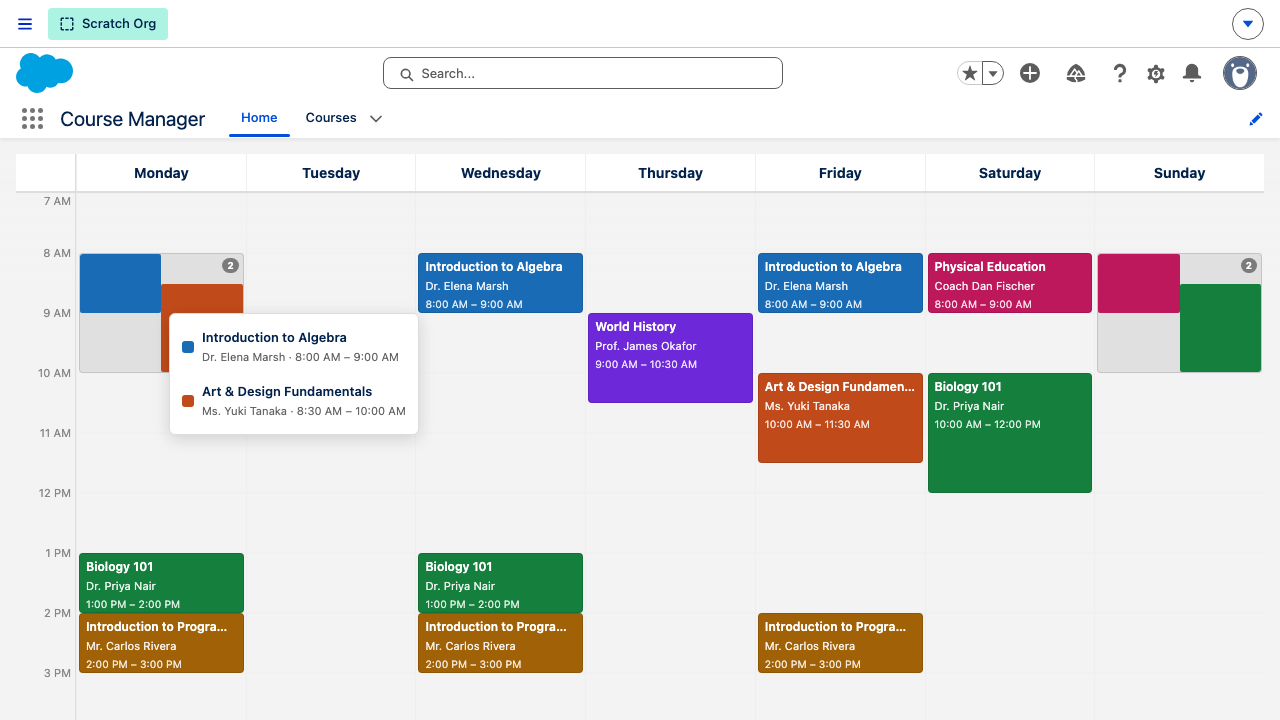
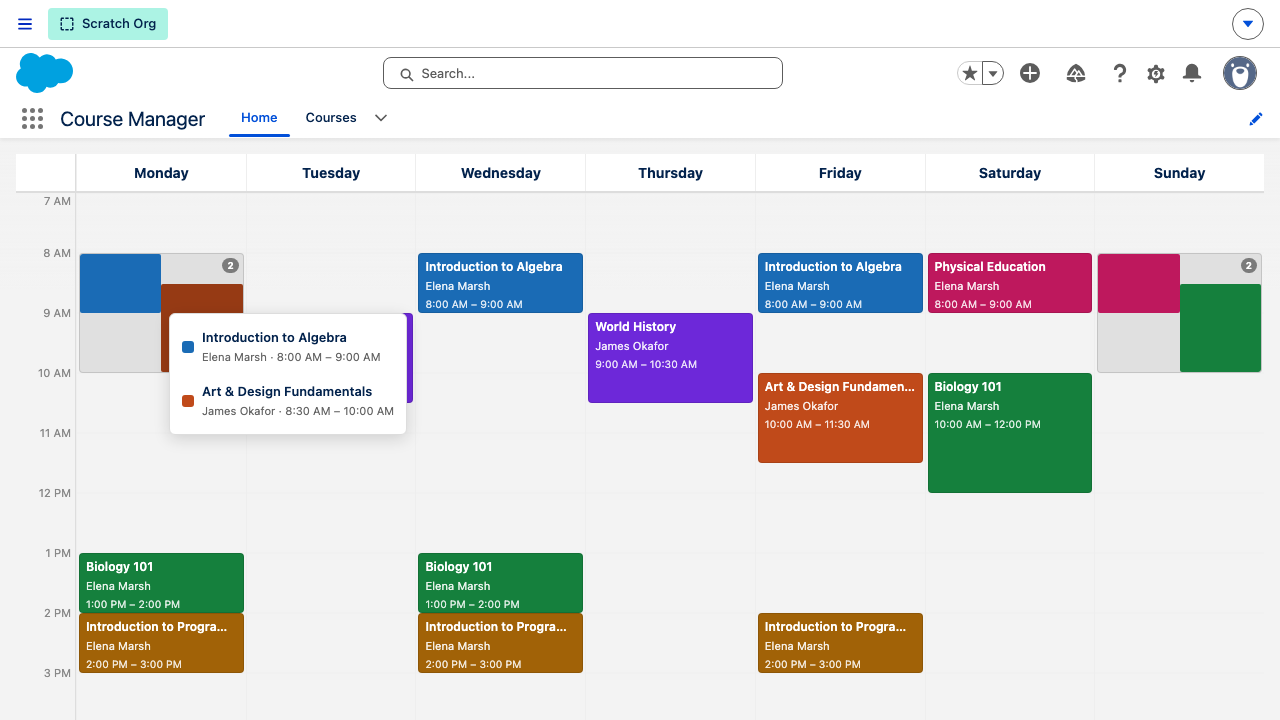
Add README screenshots for standard and community users
Captures the calendar overlap popover, courses list, Biology 101 record,
and three community (Experience Site) pages — home, Join a Course, and
My Courses — with dedicated screenshot scripts for each.

diff --git a/scripts/screenshot/assets-biology-101.js b/scripts/screenshot/assets-biology-101.js
@@ -1,0 +1,43 @@
+import { chromium } from '@playwright/test';
+import { getFrontdoorUrl, getInstanceUrl } from '../../tests/helpers/salesforce.js';
+import { mkdirSync } from 'fs';
+
+mkdirSync('assets', { recursive: true });
+
+const browser = await chromium.launch({ headless: true });
+const context = await browser.newContext({ viewport: { width: 1280, height: 720 } });
+const page = await context.newPage();
+
+await page.goto(getFrontdoorUrl('/lightning/page/home'), { waitUntil: 'commit' });
+await page.locator('one-app-nav-bar-item-root').first().waitFor({ state: 'visible', timeout: 45_000 });
+
+const coursesTab = page.locator('one-app-nav-bar-item-root', { hasText: 'Courses' }).first();
+await coursesTab.waitFor({ state: 'visible', timeout: 30_000 });
+await coursesTab.click();
+
+await page.locator('force-list-view-manager-header, .listViewManagerHeader, .slds-page-header__title').first()
+  .waitFor({ state: 'visible', timeout: 30_000 });
+await page.waitForTimeout(2000);
+
+// Switch to All Courses list view first to find Biology 101
+const listViewPicker = page.locator('.triggerLink, .slds-page-header__name.slds-type-focus').first();
+await listViewPicker.waitFor({ state: 'visible', timeout: 10_000 });
+await listViewPicker.click();
+const allCoursesOption = page.locator('a[title="All Courses"], span[title="All Courses"], li', { hasText: 'All Courses' }).first();
+await allCoursesOption.waitFor({ state: 'visible', timeout: 10_000 });
+await allCoursesOption.click();
+await page.waitForTimeout(3000);
+
+// Click on the CRS-0002 link (Biology 101's course number)
+const biologyLink = page.locator('a', { hasText: 'CRS-0002' }).first();
+await biologyLink.waitFor({ state: 'visible', timeout: 15_000 });
+await biologyLink.click();
+
+await page.waitForURL(/Course__c\/[A-Za-z0-9]+\/view/, { timeout: 30_000 });
+await page.waitForTimeout(4000);
+
+await page.screenshot({ path: 'assets/biology-101-course.png', fullPage: false });
+console.log('Screenshot saved: assets/biology-101-course.png');
+
+await context.close();
+await browser.close();

diff --git a/scripts/screenshot/assets-courses-list.js b/scripts/screenshot/assets-courses-list.js
@@ -1,0 +1,35 @@
+import { chromium } from '@playwright/test';
+import { getFrontdoorUrl } from '../../tests/helpers/salesforce.js';
+import { mkdirSync } from 'fs';
+
+mkdirSync('assets', { recursive: true });
+
+const browser = await chromium.launch({ headless: true });
+const context = await browser.newContext({ viewport: { width: 1280, height: 720 } });
+const page = await context.newPage();
+
+await page.goto(getFrontdoorUrl('/lightning/page/home'), { waitUntil: 'commit' });
+await page.locator('one-app-nav-bar-item-root').first().waitFor({ state: 'visible', timeout: 45_000 });
+
+const coursesTab = page.locator('one-app-nav-bar-item-root', { hasText: 'Courses' }).first();
+await coursesTab.waitFor({ state: 'visible', timeout: 30_000 });
+await coursesTab.click();
+
+await page.locator('force-list-view-manager-header, .listViewManagerHeader, .slds-page-header__title').first()
+  .waitFor({ state: 'visible', timeout: 30_000 });
+await page.waitForTimeout(2000);
+
+// Switch to the All Courses list view via the list view picker trigger
+const listViewPicker = page.locator('.triggerLink, .slds-page-header__name.slds-type-focus').first();
+await listViewPicker.waitFor({ state: 'visible', timeout: 10_000 });
+await listViewPicker.click();
+const allCoursesOption = page.locator('a[title="All Courses"], span[title="All Courses"], li', { hasText: 'All Courses' }).first();
+await allCoursesOption.waitFor({ state: 'visible', timeout: 10_000 });
+await allCoursesOption.click();
+await page.waitForTimeout(3000);
+
+await page.screenshot({ path: 'assets/courses-list.png', fullPage: false });
+console.log('Screenshot saved: assets/courses-list.png');
+
+await context.close();
+await browser.close();

diff --git a/scripts/screenshot/assets-my-courses-alice.js b/scripts/screenshot/assets-my-courses-alice.js
@@ -1,0 +1,35 @@
+import { chromium } from '@playwright/test';
+import { getFrontdoorUrl } from '../../tests/helpers/salesforce.js';
+import { mkdirSync } from 'fs';
+
+mkdirSync('assets', { recursive: true });
+
+const browser = await chromium.launch({ headless: true });
+const context = await browser.newContext({ viewport: { width: 1280, height: 720 } });
+const page = await context.newPage();
+
+// Boot admin session on Alice Chen's Contact record
+await page.goto(getFrontdoorUrl('/003RK00001pbPsnYAE'), { waitUntil: 'commit' });
+await page.waitForTimeout(3000);
+
+// Log in to Experience Site as Alice Chen
+await page.getByRole('button', { name: 'Show more actions' }).click();
+await page.getByRole('menuitem', { name: 'Log in to Experience as User' }).waitFor({ state: 'visible', timeout: 10_000 });
+await page.getByRole('menuitem', { name: 'Log in to Experience as User' }).click();
+
+// Wait for Experience Site to load
+await page.waitForTimeout(4000);
+
+// Navigate to My Courses
+await page.getByRole('link', { name: 'My Courses' }).waitFor({ state: 'visible', timeout: 30_000 });
+await page.getByRole('link', { name: 'My Courses' }).click();
+
+await page.locator('dxp-record-layout, .slds-page-header, h1, h2, h3').first()
+  .waitFor({ state: 'visible', timeout: 30_000 });
+await page.waitForTimeout(3000);
+
+await page.screenshot({ path: 'assets/my-courses.png', fullPage: false });
+console.log('Screenshot saved: assets/my-courses.png');
+
+await context.close();
+await browser.close();

diff --git a/scripts/screenshot/assets-join-a-course-alice.js b/scripts/screenshot/assets-join-a-course-alice.js
@@ -1,0 +1,32 @@
+import { chromium } from '@playwright/test';
+import { getFrontdoorUrl } from '../../tests/helpers/salesforce.js';
+import { mkdirSync } from 'fs';
+
+mkdirSync('assets', { recursive: true });
+
+const browser = await chromium.launch({ headless: true });
+const context = await browser.newContext({ viewport: { width: 1280, height: 720 } });
+const page = await context.newPage();
+
+// Boot admin session on Alice Chen's Contact record
+await page.goto(getFrontdoorUrl('/003RK00001pbPsnYAE'), { waitUntil: 'commit' });
+await page.waitForTimeout(3000);
+
+// Log in to Experience Site as Alice Chen
+await page.getByRole('button', { name: 'Show more actions' }).click();
+await page.getByRole('menuitem', { name: 'Log in to Experience as User' }).waitFor({ state: 'visible', timeout: 10_000 });
+await page.getByRole('menuitem', { name: 'Log in to Experience as User' }).click();
+
+// Wait for Experience Site to load
+await page.waitForTimeout(4000);
+
+// Navigate to Join a Course
+await page.getByRole('link', { name: 'Join a Course' }).waitFor({ state: 'visible', timeout: 30_000 });
+await page.getByRole('link', { name: 'Join a Course' }).click();
+await page.waitForTimeout(4000);
+
+await page.screenshot({ path: 'assets/join-a-course.png', fullPage: false });
+console.log('Screenshot saved: assets/join-a-course.png');
+
+await context.close();
+await browser.close();

diff --git a/scripts/screenshot/calendar-overlap-popover.js b/scripts/screenshot/calendar-overlap-popover.js
@@ -1,0 +1,32 @@
+import { chromium } from '@playwright/test';
+import { getFrontdoorUrl, getInstanceUrl } from '../../tests/helpers/salesforce.js';
+import { mkdirSync } from 'fs';
+import { join } from 'path';
+
+const SCREENSHOTS_DIR = 'assets';
+mkdirSync(SCREENSHOTS_DIR, { recursive: true });
+
+const browser = await chromium.launch({ headless: true });
+const context = await browser.newContext({ viewport: { width: 1280, height: 720 } });
+const page = await context.newPage();
+
+// Boot the session on the home page
+await page.goto(getFrontdoorUrl('/lightning/page/home'), { waitUntil: 'commit' });
+await page.locator('one-app-nav-bar-item-root').first().waitFor({ state: 'visible', timeout: 45_000 });
+await page.waitForTimeout(4000);
+
+// Click the first overlap-group badge (the Monday "2" stack indicator)
+const overlapGroup = page.locator('.overlap-group').first();
+await overlapGroup.waitFor({ state: 'visible', timeout: 15_000 });
+await overlapGroup.click();
+
+// Wait for the popover to appear
+await page.locator('.overlap-popover').waitFor({ state: 'visible', timeout: 10_000 });
+await page.waitForTimeout(1000);
+
+const screenshotPath = join(SCREENSHOTS_DIR, 'calendar-overlap-popover.png');
+await page.screenshot({ path: screenshotPath, fullPage: false });
+console.log(`Screenshot saved: ${screenshotPath}`);
+
+await context.close();
+await browser.close();

diff --git a/scripts/screenshot/assets-community-home-alice.js b/scripts/screenshot/assets-community-home-alice.js
@@ -1,0 +1,27 @@
+import { chromium } from '@playwright/test';
+import { getFrontdoorUrl } from '../../tests/helpers/salesforce.js';
+import { mkdirSync } from 'fs';
+
+mkdirSync('assets', { recursive: true });
+
+const browser = await chromium.launch({ headless: true });
+const context = await browser.newContext({ viewport: { width: 1280, height: 720 } });
+const page = await context.newPage();
+
+// Boot admin session on Alice Chen's Contact record
+await page.goto(getFrontdoorUrl('/003RK00001pbPsnYAE'), { waitUntil: 'commit' });
+await page.waitForTimeout(3000);
+
+// Log in to Experience Site as Alice Chen
+await page.getByRole('button', { name: 'Show more actions' }).click();
+await page.getByRole('menuitem', { name: 'Log in to Experience as User' }).waitFor({ state: 'visible', timeout: 10_000 });
+await page.getByRole('menuitem', { name: 'Log in to Experience as User' }).click();
+
+// Wait for the Experience Site home page to render
+await page.waitForTimeout(8000);
+
+await page.screenshot({ path: 'assets/community-home.png', fullPage: false });
+console.log('Screenshot saved: assets/community-home.png');
+
+await context.close();
+await browser.close();

diff --git a/README.md b/README.md
@@ -2,4 +2,44 @@
 
 A Salesforce-based application for managing courses, instructors, and weekly schedules.
 
+## Standard Users
+
+### Home — Weekly Calendar
+
+The home page shows all courses in a weekly calendar view. Overlapping time slots are grouped into a stack badge; clicking it opens a popover listing each course.
+
 ![Calendar view showing overlapping courses in a popover](/assets/calendar-overlap-popover.png)
+
+### Courses List
+
+All courses are visible in the **All Courses** list view with course number, name, and instructor.
+
+![All Courses list view](/assets/courses-list.png)
+
+### Course Record
+
+Each course record shows the course details and its related time slots.
+
+![Biology 101 course record](/assets/biology-101-course.png)
+
+## Community Users
+
+Community users access the app through an Experience Site with three pages: Home, Join a Course, and My Courses.
+
+### Home
+
+The community home page shows the full weekly course schedule as a read-only calendar.
+
+![Community home page with weekly calendar](/assets/community-home.png)
+
+### Join a Course
+
+Students can browse available courses and enroll by selecting one or more from the list.
+
+![Join a Course page showing available courses](/assets/join-a-course.png)
+
+### My Courses
+
+Enrolled students see their current courses in the My Courses page.
+
+![My Courses page showing enrolled courses](/assets/my-courses.png)
